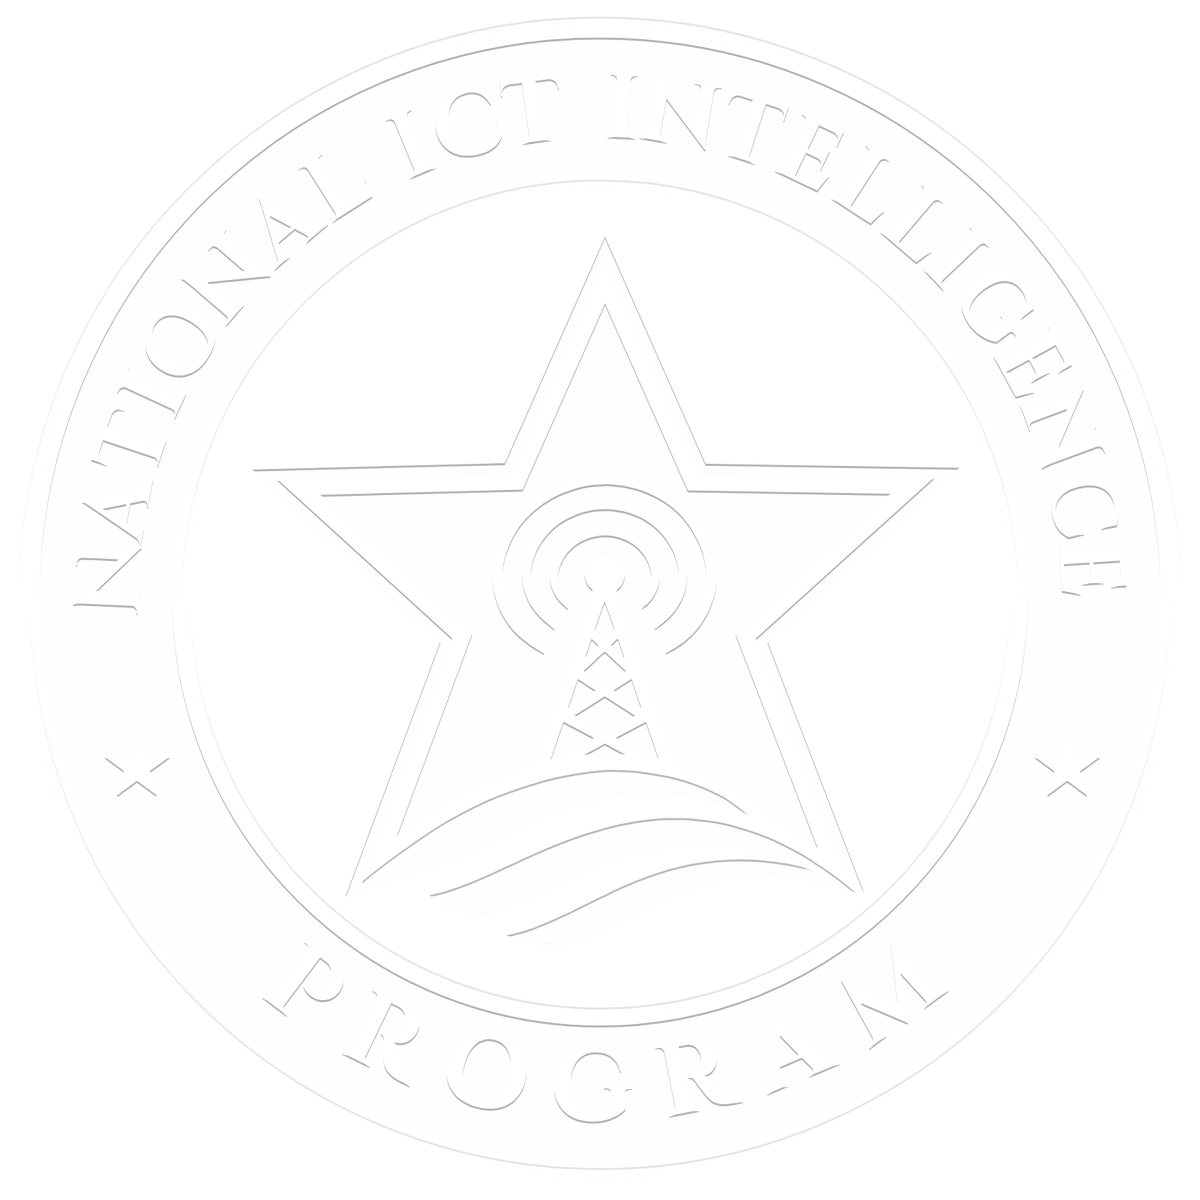
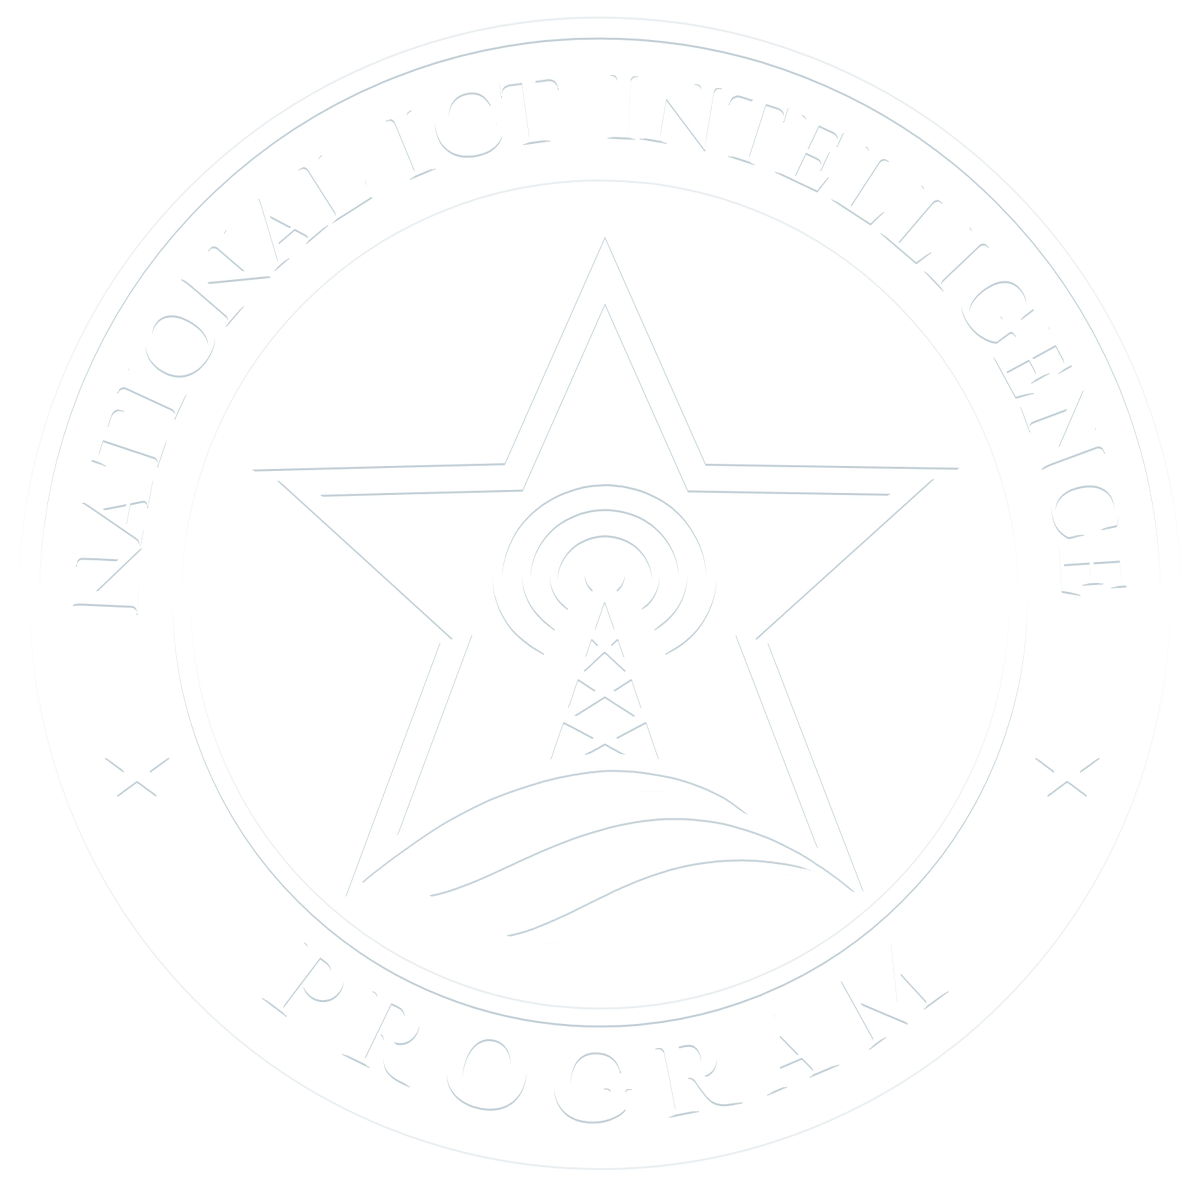
Research Group: UN blue in place of the navy
The owner chose UN blue: the United Nations' own #009EDB now fills the bands that were
graphite (the FAQ flood, the sign-up, the footer, the dark panel and keys). White on
UN blue reaches 3:1, enough for display type and short of the 4.5:1 WCAG AA asks of
body text, so on the bands the big headings and the wordmark are white and the rest
is a deep UN-blue ink (5.1:1); the dark button is a deeper UN blue so its white label
passes. On the grey, headings, key labels and small text are UN blue deepened to
#00608F (5.5:1), and the grey and the shadows cool toward it. The seal watermarks
are redrawn to match. The six area pages follow.

diff --git a/public/rg/rg.css b/public/rg/rg.css
@@ -516,20 +516,34 @@ select.m-field { background-image: linear-gradient(45deg, transparent 50%, var(-
 #footer :focus-visible { outline-color: var(--color-1); }
 }
 
-/* ---- NIIP: navy in the palette (the owner's call, 29 Oct 2026). The template's nine tokens keep their
-   jobs and take the site's navy (#0B2C63): the stamped headings, the key labels and the small text are
-   navy ink; the graphite bands (the FAQ flood, the sign-up, the footer, the dark keys and buttons) are
-   navy; the grey surface cools a shade toward it, and every shadow, mixed from the ink, is navy-tinted. */
+/* ---- NIIP: UN blue in the palette (the owner's call, 29 Oct 2026): the United Nations' own blue,
+   #009EDB, in the bands that were graphite (the FAQ flood, the sign-up, the footer, the dark panel and
+   keys). White on UN blue reaches only 3:1, enough for display type, short of the 4.5:1 WCAG AA asks of
+   body text, so on the bands the big headings and the wordmark stay white and everything else is a deep
+   UN-blue ink. On the grey, the stamped headings, key labels and small text are UN blue deepened to
+   pass AA (#00608F), and the grey and every shadow cool toward it. */
 :root {
-  --color-1: #e3e6ec;   /* page and key faces, the grey cooled toward the navy */
-  --color-2: #13203d;   /* body text and the ink every shadow is mixed from */
-  --color-4: #8a93a7;   /* hairlines and contours */
-  --color-5: #0b2c63;   /* stamped headings, key labels, small text: the site's navy */
-  --color-6: #b1b9c9;   /* the hero's upper edge */
-  --color-7: #0b2c63;   /* the bands that were graphite */
-  --color-8: #aebbd9;   /* muted text on navy */
-  --color-9: #04102a;   /* the deep shade under navy keys and buttons */
+  --color-1: #e2e8ee;   /* page and key faces, the grey cooled toward UN blue */
+  --color-2: #0c2236;   /* body text and the ink every shadow is mixed from */
+  --color-4: #8796a5;   /* hairlines and contours */
+  --color-5: #00608f;   /* stamped headings, key labels, small text: UN blue deepened for AA (5.5:1) */
+  --color-6: #b0c4d4;   /* the hero's upper edge */
+  --color-7: #009edb;   /* UN blue: the bands that were graphite */
+  --color-8: #072f4b;   /* muted text on UN blue (4.6:1) */
+  --color-9: #003a5c;   /* the deep shade under the blue keys and buttons */
+  --ink-on-blue: #04263d;   /* body text on UN blue (5.1:1) */
 }
+#faq, #contact, #footer { color: var(--ink-on-blue); }
+#faq .faq__item summary { color: var(--ink-on-blue); }
+/* display type on the bands in pure white: the template's pale grey would give 2.4:1, white gives 3:1 */
+#faq .m-text-6, #contact .m-text-6, #footer .m-text-6 { color: #fff; }
+#contact .m-field { color: var(--ink-on-blue); }
+#faq :focus-visible, #contact :focus-visible, #footer :focus-visible { outline-color: var(--ink-on-blue); }
+/* the dark button on a UN blue band: a deep UN blue, so its white label passes AA */
+.m-btn-2 { background: linear-gradient(180deg, #0a77ab, #005b8e 72%); }
+.m-btn-2__dent { background: linear-gradient(180deg, #004a74, #005b8e); }
+.ra-step { color: var(--ink-on-blue); }
+.ra-step b { color: #fff; text-shadow: var(--shadow-7); }
 
 /* ---- NIIP: the bar's wordmark carries the program's seal; each way in on the pad carries its link;
    text labels on the drawn keys sit a touch smaller than the glyphs they replace */
